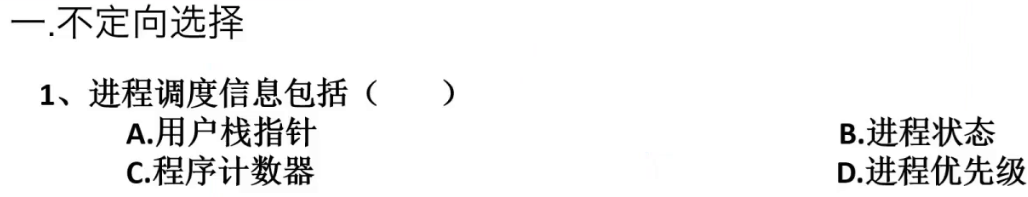
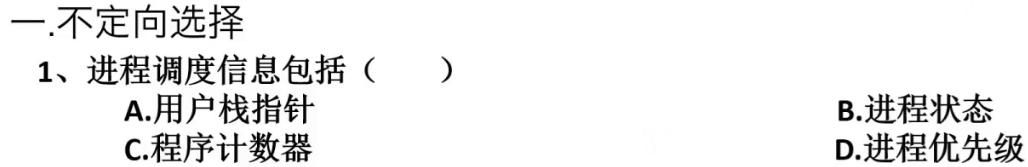
240102

diff --git a/04 每日一题/01 820/05 23/02 操作系统部分/01 不定向选择/01 进程调度信息 240102/01 Doc.md b/04 每日一题/01 820/05 23/02 操作系统部分/01 不定向选择/01 进程调度信息 240102/01 Doc.md
@@ -6,7 +6,7 @@
 
 # 01 题目
 
-<img src="https://cvp.oss-cn-shanghai.aliyuncs.com/picgo/202312271857152.png" alt="image-20231227185744066" style="zoom:50%;" />
+<img src="https://cvp.oss-cn-shanghai.aliyuncs.com/picgo/202401021137638.png" alt="image-20240102113703587" style="zoom:50%;" />
 
 
 
